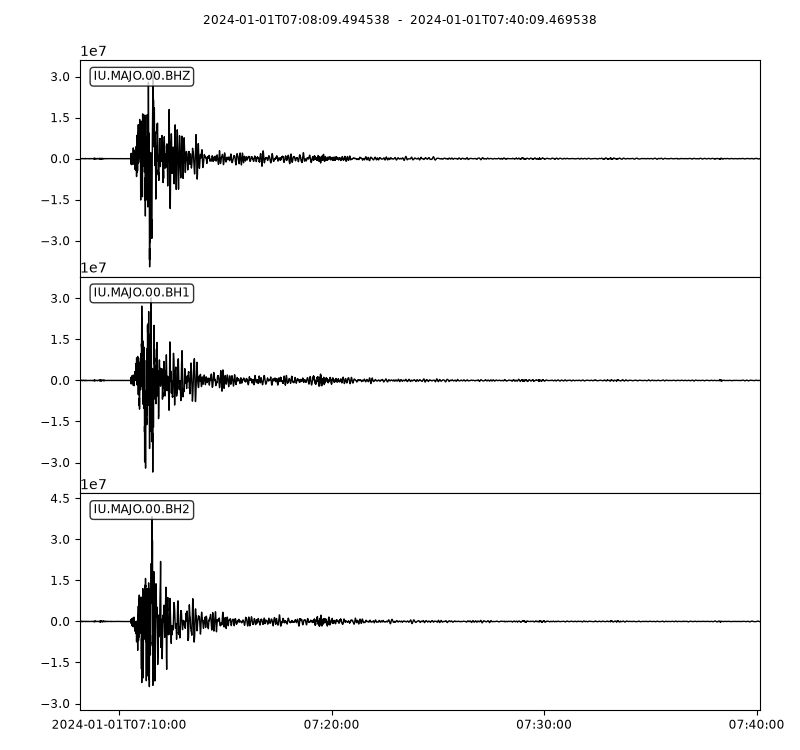
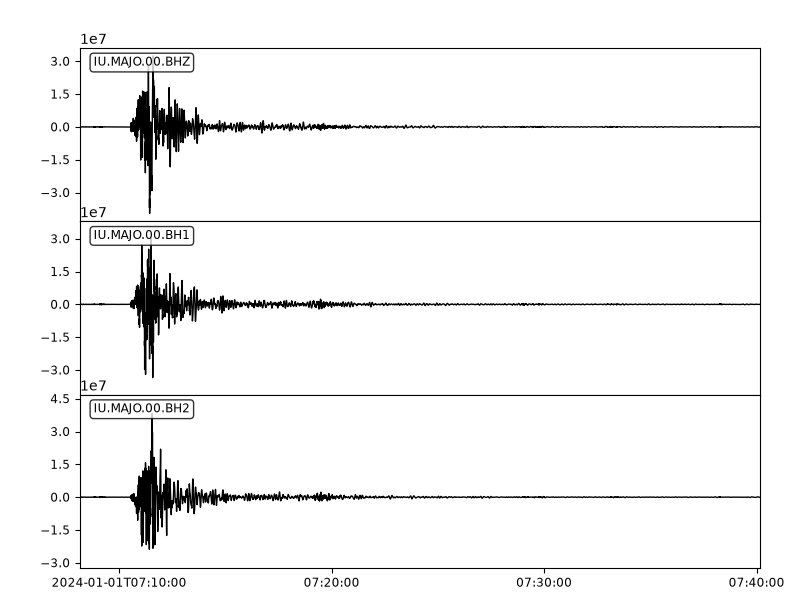
Show figures in windows as well as saving them
The scripts only saved figures to fig/, so nothing appeared on
screen. Draw Stream.plot into pyplot-managed figures and call
plt.show() at the end of 02-04.

diff --git a/03_preprocess.py b/03_preprocess.py
@@ -1,4 +1,5 @@
 """03: 揺れの大きさを「速度 [m/s]」に直す・フィルタをかける"""
+import matplotlib.pyplot as plt
 from obspy import read, read_inventory
 
 st = read("data/noto_IU.MAJO.mseed")
@@ -8,12 +9,15 @@ st_vel = st.copy()            # 元のデータは残しておく
 st_vel.detrend("demean")
 st_vel.taper(max_percentage=0.05)
 st_vel.remove_response(inventory=inv, output="VEL", pre_filt=(0.005, 0.01, 8.0, 10.0))
-st_vel.plot(outfile="fig/03_velocity.png")
+st_vel.plot(fig=plt.figure(figsize=(8, 6))).savefig("fig/03_velocity.png")
 
 for tr in st_vel:
     print(f"{tr.id}: 最大 {abs(tr.data).max() * 100:.2f} cm/s")
 
 # 10〜50 秒周期のゆっくりした揺れだけを見る
-st_vel.copy().filter("bandpass", freqmin=0.02, freqmax=0.1).plot(outfile="fig/03_bandpass.png")
+st_bp = st_vel.copy().filter("bandpass", freqmin=0.02, freqmax=0.1)
+st_bp.plot(fig=plt.figure(figsize=(8, 6))).savefig("fig/03_bandpass.png")
 
 st_vel.write("data/noto_IU.MAJO_vel.mseed", format="MSEED")
+
+plt.show()  # 図をウィンドウで表示（閉じるとスクリプトが終わります）

diff --git a/02_plot.py b/02_plot.py
@@ -13,7 +13,7 @@ inv = read_inventory("data/IU.MAJO.xml")
 origin = read_events("data/noto_event.xml")[0].preferred_origin()
 
 # plot() 一発
-st.plot(outfile="fig/01_raw_stream.png")
+st.plot(fig=plt.figure(figsize=(8, 6))).savefig("fig/01_raw_stream.png")
 
 # 震源から観測点までの距離
 coords = inv.get_coordinates(st[0].id, origin.time)
@@ -42,3 +42,5 @@ plt.xlabel("Time since origin [s]")
 plt.legend()
 plt.tight_layout()
 plt.savefig("fig/02_bhz_with_taup.png", dpi=150)
+
+plt.show()  # 図をウィンドウで表示（閉じるとスクリプトが終わります）

diff --git a/04_spectrum.py b/04_spectrum.py
@@ -30,3 +30,5 @@ ax.set_ylim(0.05, 20)
 ax.set_xlabel("Time [s]")
 ax.set_ylabel("Frequency [Hz]")
 fig.savefig("fig/04_spectrogram.png", dpi=150)
+
+plt.show()  # 図をウィンドウで表示（閉じるとスクリプトが終わります）

diff --git a/README.md b/README.md
@@ -78,7 +78,7 @@ python 03_preprocess.py   # 揺れの大きさを速度 [m/s] に直す・フィ
 python 04_spectrum.py     # FFT とスペクトログラムで周波数を調べる
 ```
 
-図は `fig/` に保存されます。
+`02`〜`04` は図をウィンドウで表示します。**ウィンドウをすべて閉じるとスクリプトが終わります。** 図は `fig/` にも保存されます。
 
 | スクリプト | 出力される図 |
 | --- | --- |
